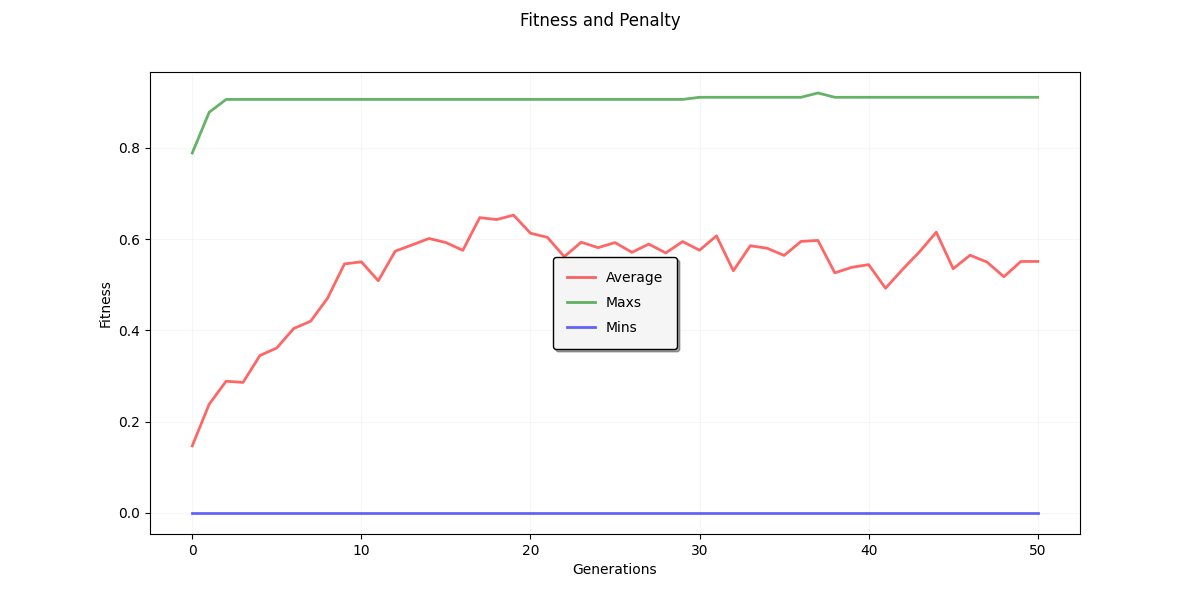
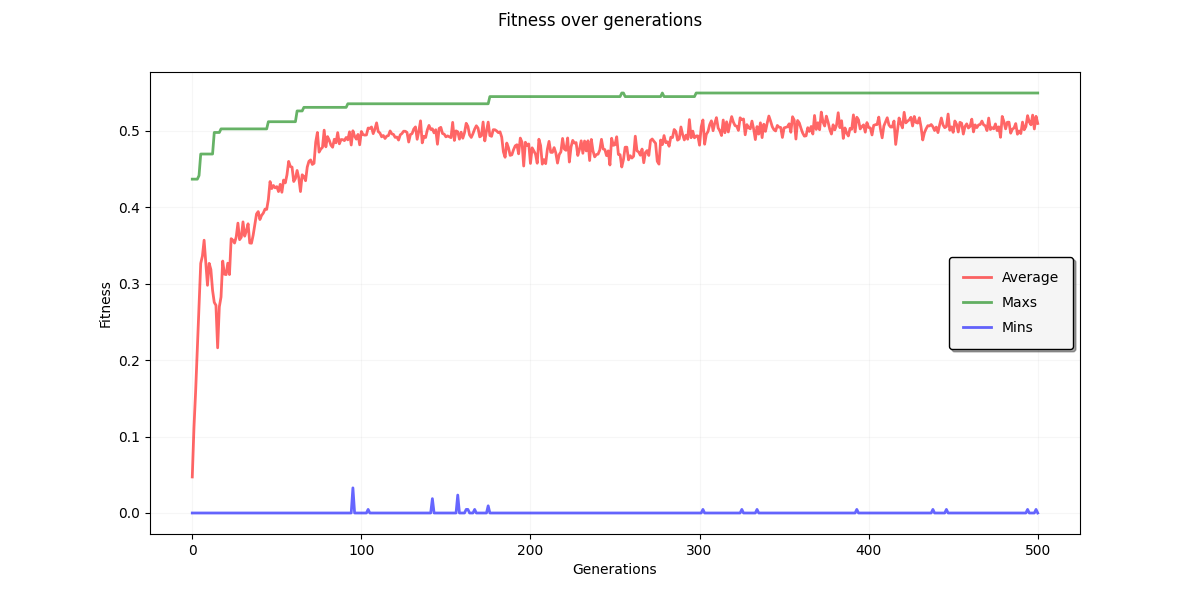
updated readme

diff --git a/src/sol/main.py b/src/sol/main.py
@@ -8,7 +8,7 @@ from Stats import config_stats, plot_fitness_penalty
 from Output import save_generated_tree, plot_conf_matrix
 
 
-def main(CXPB=0.5, MUTPB=0.2, NGEN=50, NIND=200, use_binary=True,
+def main(CXPB=0.5, MUTPB=0.2, NGEN=500, NIND=200, use_binary=False,
          save_tree=True, plot_stats=True, plot_matrix=True, debug=True,
          max_tree_height=10, max_subtree_height=3, max_mutated_subtree_height=2):
 

diff --git a/src/sol/Configuration.py b/src/sol/Configuration.py
@@ -71,7 +71,7 @@ def config_algorithm(inputs, targets, toolbox, pset, max_tree_height, max_subtre
     toolbox.decorate("mutate", gp.staticLimit(
         key=operator.attrgetter("height"), max_value=limit_height))
 
-    n_elem = 200
+    n_elem = 50
     toolbox.decorate("mate", gp.staticLimit(key=len, max_value=n_elem))
     toolbox.decorate("mutate", gp.staticLimit(key=len, max_value=n_elem))
 

diff --git a/README.md b/README.md
@@ -2,7 +2,7 @@
 
 ---
 
-1. Install pygraphviz on linux machine, WSL, docker or similar: 
+1. Install pygraphviz on linux machine, WSL, docker or similar:
 
 ```bash
 sudo apt-get install graphviz graphviz-dev
@@ -17,12 +17,12 @@ pip install -r requirements.txt
 ```
 
 Requirements:
+
 - pandas (csv loading)
 - sklearn (confussion matrix and other metrics)
 - matplotlib (plotting)
 - deap
 - pygraphviz (generating tress)
-
 
 3. Execute main or experiments:
 
@@ -73,7 +73,11 @@ Por ejemplo:
 
 ![Fitness and penalty in multiclass](https://github.com/irg1008/COMPU_Practica03/blob/7c092416cc14659fc3813953fb0876cbe01459fc/output/stats.png?raw=true)
 
-En la imagen podemos observar dos gráficas, una con el fitness y otra con el penalty. El fitness se mide con el f-score y el penalty con el hamming loss (fracción de etiquetas mal clasificadas).
+En la imagen podemos observar dos gráficas, una con el fitness y otra con el penalty. El fitness se mide con el f-score (medida de precisión de la clasificación) y el penalty con el hamming loss (fracción de etiquetas mal clasificadas).
+
+- El f_score es una métrica de clasificación que se calcula con la siguiente fórmula:
+
+  $f\_score = \frac{2TP}{2TP+FP+FN}$
 
 Cuando el f-score aumenta, las eiquetas son más precisas, por lo que el hamming loss es menor.
 Hemos llegado a la conclusión de que todos los valores que usemos como penalización no aportan información para conseguir una mejor adaptación.
@@ -87,14 +91,14 @@ Hemos llegado a la conclusión de que todos los valores que usemos como penaliza
 Para solucionar la clasifiación fuera de los límites de la matriz, podemos usar una penalización por distancia. La distancia se calcula entre el valor predicho y el límite de clasifiación.
 
 - Para ello necesitamos saber los límites inferiores y superiores de las etiquetas.
-Estos no son más que 0 y 1 en la clasificación binaria y 1 y 7 en la clasificación multiclase.
+  Estos no son más que 0 y 1 en la clasificación binaria y 1 y 7 en la clasificación multiclase.
 
-  $min = min(ytest)$ siendo y_test el vector de etiquetas reales.
-  $max = max(ytest)$
+  $min = min(y\_test)$ siendo y_test el vector de etiquetas reales.
+  $max = max(y\_test)$
 
 - Tras tener los valores mínimos y máximos, podemos calcular la distancia entre el valor predicho y el intervalo [min, max].
 
-  $distancia = abs(ypred - min) + abs(ypred - max)$
+  $distancia = abs(y\_pred - min) + abs(y\_pred - max)$
 
 Si aplicamos una penalización por distancia, e intentamos disminuir la misma, el algoritmo eliminará etiquetas que se alejen de los valores válidos.
 
@@ -108,15 +112,79 @@ Podemos ver una matriz de confusión sin penalización a continuación:
 Y otra con penalización:
 ![Uso de penalización para evitar etiquetas "out of bounds"](https://github.com/irg1008/COMPU_Practica03/blob/6bdd291e88ce4e0425c4e9820789e5f9c480bdc1/output/conf_mat.png?raw=true)
 
+### MEJOR FITNESS EN LAS CLASIFICACIONES
+
+---
+
+Configuración de ejecución:
+
+- CXPB=0.5
+- MUTPB=0.2
+- NGEN=500
+- NIND=200
+- use_binary=True
+- max_tree_height=10
+- max_subtree_height=3,
+- max_mutated_subtree_height=2
+
+Por otro lado el máximo número de nodos generados en el árbol, es 50.
+
+#### Clasificación binaria
+
+El fitness por generación es el siguiente:
+
+![Fitness en binary](https://i.imgur.com/myRhJcg.png)
+
+El árbol generado de la mejor solución con fitness 0.9577 (95,77% de acierto) es:
+
+![Árbol de clasificación binaria](https://i.imgur.com/1r7mfKO.png)
+
+$protDiv(abs(sub(Mg, Fe)), add(add(protDiv(Mg, sub(Mg, Ba)), Mg), sub(sub(RI, Fe), protDiv(Fe, add(Fe, add(protDiv(protDiv(Al, sub(Ba, add(Al, Mg))), sub(abs(Al), sub(mul(Fe, K), mul(Al, Si)))), abs(protDiv(sub(Ba, add(Al, Mg)), mul(Al, Si)))))))))$
+
+Por último la matriz de confusión es la siguiente:
+
+![Matriz de confusión binaria](https://i.imgur.com/N3fRKKi.png)
+
+#### Clasificación multiclase
+
+Con los mismos parámetros de ejecución, el fitness por generación es el siguiente:
+![Fitness en multiclase](https://i.imgur.com/LVzsWxQ.png)
+
+- El mejor fitness es 0,5492 (54,92% de acierto)
+
+Podemos observar que el fitness es mucho menor, esto es porque el algoritmo genético no es el mejor para clasificación de varias etiquetas, aun menos cuando solo tenemos 215 filas de datos en el dataset, siendo la mayoría de los datos para dos etiquetas (1 y 2) (podemos ver esto reflejado en la matriz de confusión más abajo).
+
+Con el correspondiente árbol:
+
+![Árbol de clasificación multiclase](https://i.imgur.com/q47PEKI.png)
+
+La expresión de este árbol es:
+
+$add(protDiv(Al, add(add(add(Na, Al), protDiv(Al, neg(add(mul(sub(add(Mg, Ba), protDiv(Na, Na)), add(Mg, add(Mg, Ba))), protDiv(abs(Al), abs(Na)))))), protDiv(Na, neg(add(mul(Si, protDiv(Fe, Fe)), add(mul(abs(Na), add(Mg, Fe)), Na)))))), abs(Al))$
+
+Por último, la matriz de confusión nos otorga una vista de porque la clasificación no es buena en este caso:
+
+![Matriz de multiclase](https://i.imgur.com/8BObo67.png)
+
+Más concretamente la fracción de etiquetas es:
+| Etiqueta   | Número de datos |
+|------------|-----------------|
+| Etiqueta 1 | 71              |
+| Etiqueta 2 | 76              |
+| Etiqueta 3 | 17              |
+| Etiqueta 4 | 0               |
+| Etiqueta 5 | 13              |
+| Etiqueta 6 | 9               |
+| Etiqueta 7 | 29              |
+| __Total__  | __215__         |
+          
 ### POSIBLES MEJORAS
 
 ---
 
 - Crear operadores adicionales
-- Cambiar la clasificación a distancia de binarios o algo así. Por eso venía en binarios.
-- Minimizar el árbol y eliminar ramas innecesarias usando Orthogonal least squares (OSL)
-
-  No hemos implementado Orthogonal least squares (OLS), ya que aumenta el tiempo de ejecución y no merece la pena la mejora.
+- Cambiar la clasificación a distancia de binarios.
+- Minimizar el árbol y eliminar ramas innecesarias usando Orthogonal least squares (OLS). No implementado , ya que aumenta el tiempo de ejecución y no merece la pena la mejora.
 
 ### LIBRERÍAS USADAS
 
